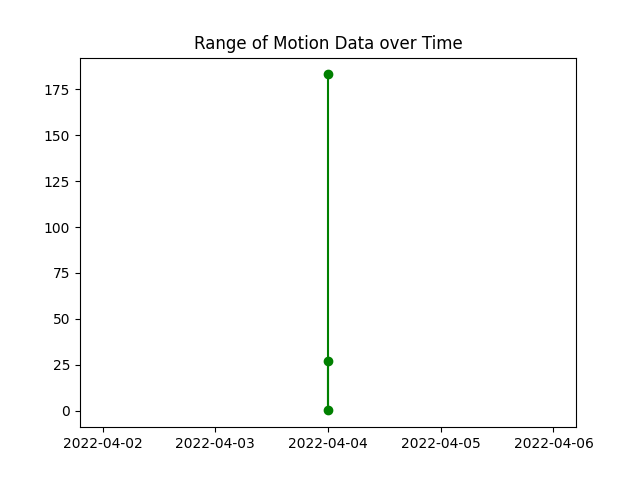
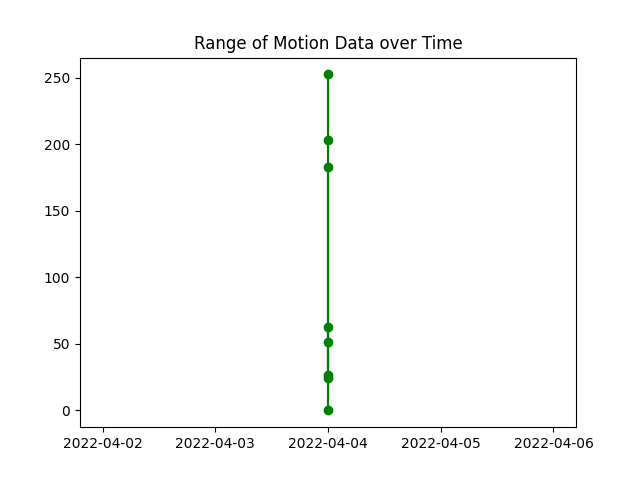
got both graphs to show in real time :)

diff --git a/GUI_frames/main.py b/GUI_frames/main.py
@@ -45,9 +45,18 @@ def plot_data():
         # force data
         global_var.force_data.append(float(data_array[1]))
 
-        lines.set_xdata(np.arange(start=0, stop=len(data), step=1))
-        lines.set_ydata(data)
-        canvas.draw()
+        if global_var.exercise_one:
+            lines_1.set_xdata(np.arange(start=0, stop=len(data), step=1))
+            lines_1.set_ydata(data)
+        else:
+            lines_2.set_xdata(np.arange(start=0, stop=len(data), step=1))
+            lines_2.set_ydata(data)
+
+        if global_var.exercise_one:
+            print(global_var.exercise_one)
+            canvas_one.draw()
+        else:
+            canvas_two.draw()
 
     global AFTER
     AFTER = window.after(1, plot_data)
@@ -173,56 +182,55 @@ b2 = Button(exercise_one, image=results_btn, borderwidth=0, highlightthickness=0
 b2.place(x=526, y=190, width=200, height=76)
 
 # adding in graph
-fig = Figure()
-ax = fig.add_subplot(111)
+fig_1 = Figure()
+ax_1 = fig_1.add_subplot(111)
 
-ax.set_title('Degrees vs. # of Data Points')
-ax.set_ylabel('Degrees')
-ax.set_ylim(-180, 360)
-ax.set_xlim(0, 50)
-lines = ax.plot([], [])[0]  # this gives an array that is varying moved as global variable
+ax_1.set_title('Degrees vs. # of Data Points')
+ax_1.set_ylabel('Degrees')
+ax_1.set_ylim(-180, 360)
+ax_1.set_xlim(0, 50)
+lines_1 = ax_1.plot([], [])[0]  # this gives an array that is varying moved as global variable
 
-canvas = FigureCanvasTkAgg(fig, master=exercise_one)  # A tk.DrawingArea
-canvas.get_tk_widget().place(x=475, y=270, width=300, height=325)
-canvas.draw()
+canvas_one = FigureCanvasTkAgg(fig_1, master=exercise_one)  # A tk.DrawingArea
+canvas_one.get_tk_widget().place(x=475, y=270, width=300, height=325)
+canvas_one.draw()
 
 # ------- exercise two page -------
 data = np.array([])
 condition = False
 
 background_img_e2 = PhotoImage(file=f"side-lying_bkgd.png")
-frame1_title = tk.Label(exercise_two, text="this is frame one", image=background_img_e2, bg='white')
-frame1_title.place(x=0, y=0)
+frame2_title = tk.Label(exercise_two, text="this is exercise two", image=background_img_e2, bg='white')
+frame2_title.place(x=0, y=0)
 
 # buttons
-start_btn = PhotoImage(file=f"start_btn.png")
-end_btn = PhotoImage(file=f"end_btn.png")
-results_btn = PhotoImage(file=f"results_btn.png")
+start_btn_2 = PhotoImage(file=f"start_btn.png")
+end_btn_2 = PhotoImage(file=f"end_btn.png")
+results_btn_2 = PhotoImage(file=f"results_btn.png")
 
-btn_start = Button(exercise_two, image=start_btn, borderwidth=0, highlightthickness=0, command=plot_start, relief="flat")
+btn_start = Button(exercise_two, image=start_btn_2, borderwidth=0, highlightthickness=0, command=plot_start, relief="flat")
 btn_start.place(x=526, y=20, width=200, height=76)
 
-btn_end = Button(exercise_two, image=end_btn, borderwidth=0, highlightthickness=0, command=plot_end, relief="flat")
+btn_end = Button(exercise_two, image=end_btn_2, borderwidth=0, highlightthickness=0, command=plot_end, relief="flat")
 btn_end.place(x=526, y=105, width=200, height=76)
 
-btn_results = Button(exercise_two, image=results_btn, borderwidth=0, highlightthickness=0, command=lambda: [change_data_text(), show_frame(result)],
+btn_results = Button(exercise_two, image=results_btn_2, borderwidth=0, highlightthickness=0, command=lambda: [change_data_text(), show_frame(result)],
             relief="flat")
 btn_results.place(x=526, y=190, width=200, height=76)
 
 # adding in graph
-fig = Figure()
-ax = fig.add_subplot(111)
+fig_2 = Figure()
+ax_2 = fig_2.add_subplot(111)
 
-ax.set_title('Degrees vs. # of Data Points')
-ax.set_ylabel('Degrees')
-ax.set_ylim(-180, 360)
-ax.set_xlim(0, 50)
-lines = ax.plot([], [])[0]  # this gives an array that is varying moved as global variable
+ax_2.set_title('Degrees vs. # of Data Points')
+ax_2.set_ylabel('Degrees')
+ax_2.set_ylim(-180, 360)
+ax_2.set_xlim(0, 50)
+lines_2 = ax_2.plot([], [])[0]  # this gives an array that is varying moved as global variable
 
-canvas = FigureCanvasTkAgg(fig, master=exercise_two)  # A tk.DrawingArea
-canvas.get_tk_widget().place(x=475, y=270, width=300, height=325)
-canvas.draw()
-
+canvas_two = FigureCanvasTkAgg(fig_2, master=exercise_two)  # A tk.DrawingArea
+canvas_two.get_tk_widget().place(x=475, y=270, width=300, height=325)
+canvas_two.draw()
 
 # --------- Result page -----------
 background_img_results = PhotoImage(file=f"results_bkgd.png")
@@ -267,8 +275,6 @@ global force_label
 force_label = Label(result, text=global_var.force_value_text, font=f,
       bg='#FDF6EC')
 force_label.place(x=375, y=285)
-
-
 
 window.after(1, plot_data)
 print("looping")
